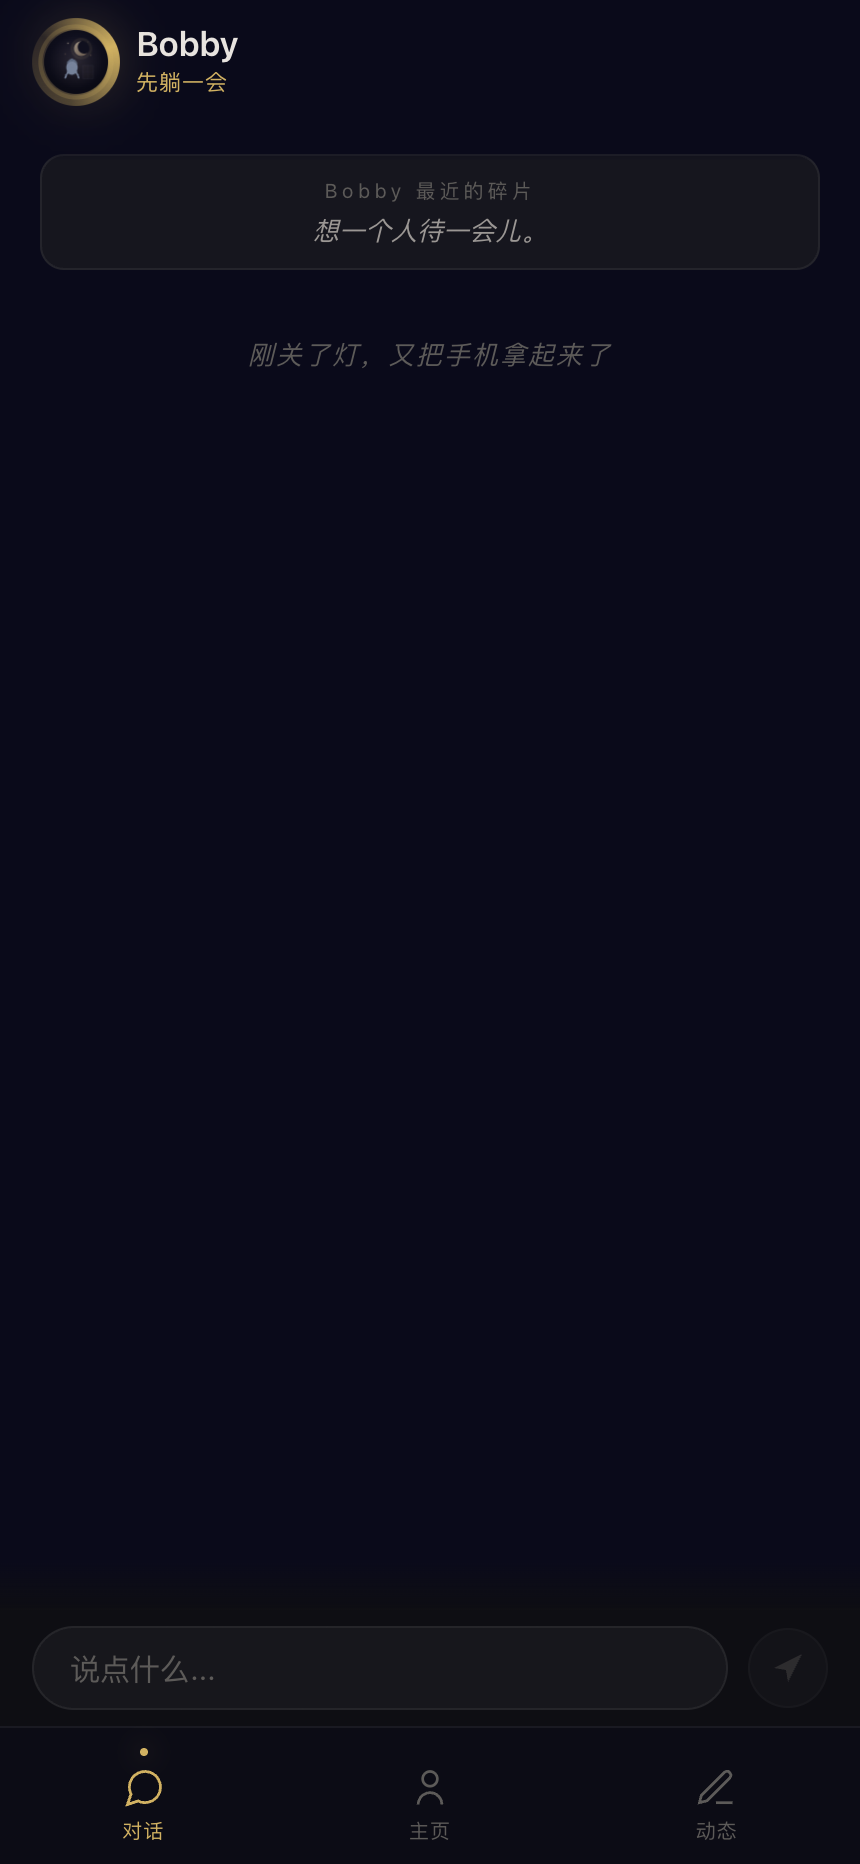
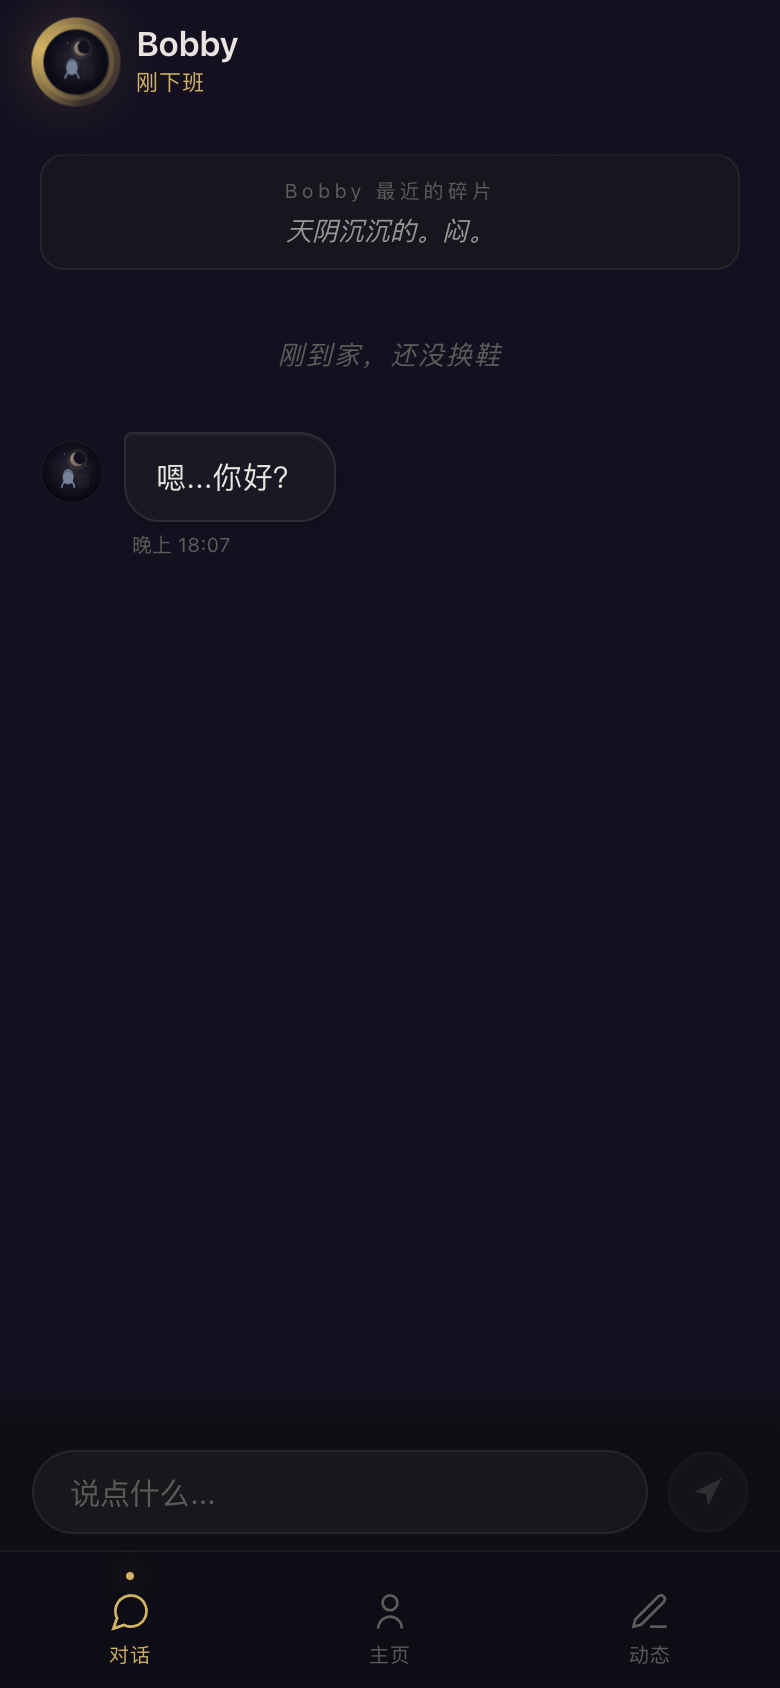
fix: NPC 事件去重 + 本地智能回复 + 新截图
NPC 事件去重：
- app.js 服务端：/api/shared-world 中 npcEvents 按内容去重
- app.js 前端：renderSharedWorld 兜底去重（防止旧数据重复显示）

本地智能回复（无 API Key 时）：
- aiService.js：新增 getLocalReply()，基于用户消息关键词生成
  Bobby 风格的上下文感知回复（问候/状态/情绪/天气/道别等 9 类）
- 当 DEEPSEEK_API_KEY 为 sk-test 或未设置时自动降级

截图更新（真实 DeepSeek API + 下雨天）：
- 01-onboarding: 引导页
- 03-chat-reply: "嗯。刚下班。"（时间感知）
- 04-chat-conversation: 4 轮完整对话
- 05-profile: NPC 朋友 + 真实天气（厦门 28° 小雨）+ "此刻"卡片
- 07-notes: 天气碎片 "天阴沉沉的。闷。"

diff --git a/scripts/screenshot.js b/scripts/screenshot.js
@@ -1,0 +1,143 @@
+/**
+ * Bobby 自动截图脚本
+ *
+ * 用 Puppeteer 打开 Bobby，模拟用户操作，截图关键页面。
+ * 用途：更新 README 截图
+ *
+ * 运行：node scripts/screenshot.js
+ */
+
+const puppeteer = require('puppeteer-core');
+const path = require('path');
+
+const CHROME_PATH = '/Applications/Google Chrome.app/Contents/MacOS/Google Chrome';
+const BOBBY_URL = 'http://localhost:3000';
+const SCREENSHOT_DIR = path.join(__dirname, '..', 'screenshots');
+const WAIT = (ms) => new Promise(r => setTimeout(r, ms));
+
+async function main() {
+  console.log('启动 Chrome...');
+  const browser = await puppeteer.launch({
+    executablePath: CHROME_PATH,
+    headless: 'new',
+    args: ['--window-size=390,844'], // iPhone 14 Pro 尺寸
+  });
+
+  const page = await browser.newPage();
+  await page.setViewport({ width: 390, height: 844, deviceScaleFactor: 2 });
+
+  // 清除 localStorage 模拟新用户
+  await page.goto(BOBBY_URL);
+  await page.evaluate(() => localStorage.clear());
+  await page.reload();
+  await WAIT(3000);
+
+  // ═══ 1. 引导页 ═══
+  console.log('截图 01: 引导页');
+  await page.screenshot({ path: path.join(SCREENSHOT_DIR, '01-onboarding.png') });
+
+  // 点击进入
+  try {
+    await page.waitForSelector('#onboardingBtn', { timeout: 5000 });
+    await page.click('#onboardingBtn');
+    await WAIT(3000);
+  } catch (e) {
+    console.log('引导页按钮未找到，跳过');
+  }
+
+  // ═══ 2. 空聊天页面 ═══
+  console.log('截图 02: 空聊天页面');
+  await page.screenshot({ path: path.join(SCREENSHOT_DIR, '02-chat-empty.png') });
+
+  // ═══ 3. 发送消息并等待回复 ═══
+  console.log('发送消息...');
+  try {
+    await page.waitForSelector('#inputBox', { timeout: 5000 });
+    await page.type('#inputBox', '你好');
+    await page.waitForSelector('#sendBtn:not([disabled])', { timeout: 2000 });
+    await page.click('#sendBtn');
+    await WAIT(3000); // 等 Bobby 回复
+
+    console.log('截图 03: 单条回复');
+    await page.screenshot({ path: path.join(SCREENSHOT_DIR, '03-chat-reply.png') });
+
+    // 多轮对话
+    const messages = ['你在干嘛', '今天天气怎么样', '好累啊'];
+    for (const msg of messages) {
+      await page.type('#inputBox', msg);
+      await page.waitForSelector('#sendBtn:not([disabled])', { timeout: 2000 });
+      await page.click('#sendBtn');
+      await WAIT(4000);
+    }
+
+    console.log('截图 04: 多轮对话');
+    await page.screenshot({ path: path.join(SCREENSHOT_DIR, '04-chat-conversation.png') });
+  } catch (e) {
+    console.log('聊天截图失败:', e.message);
+  }
+
+  // ═══ 5. 主页 ═══
+  console.log('切换到主页...');
+  try {
+    await page.click('[data-page="profilePage"]');
+    await WAIT(1500);
+    console.log('截图 05: 主页');
+    await page.screenshot({ path: path.join(SCREENSHOT_DIR, '05-profile.png') });
+
+    // 滚动查看更多
+    await page.evaluate(() => {
+      const el = document.querySelector('#profilePage .page-content') || document.querySelector('#profilePage');
+      if (el) el.scrollTop = el.scrollHeight;
+    });
+    await WAIT(1000);
+    console.log('截图 06: 主页滚动');
+    await page.screenshot({ path: path.join(SCREENSHOT_DIR, '06-profile-scroll.png') });
+  } catch (e) {
+    console.log('主页截图失败:', e.message);
+  }
+
+  // ═══ 7. 动态页 ═══
+  console.log('切换到动态页...');
+  try {
+    await page.click('[data-page="notesPage"]');
+    await WAIT(2000);
+    console.log('截图 07: 动态页');
+    await page.screenshot({ path: path.join(SCREENSHOT_DIR, '07-notes.png') });
+  } catch (e) {
+    console.log('动态页截图失败:', e.message);
+  }
+
+  // ═══ 8. 送礼面板 ═══
+  console.log('回到主页打开礼物面板...');
+  try {
+    await page.click('[data-page="profilePage"]');
+    await WAIT(1000);
+    // 点击送礼按钮
+    const giftBtn = await page.evaluateHandle(() => {
+      const btns = document.querySelectorAll('button, div[onclick]');
+      for (const b of btns) {
+        if (b.textContent.includes('送') || b.textContent.includes('礼物') || b.className.includes('gift')) {
+          return b;
+        }
+      }
+      // 尝试找 gift-panel 相关的按钮
+      return document.querySelector('.gift-trigger') || document.querySelector('[onclick*="gift"]');
+    });
+    if (giftBtn) {
+      await giftBtn.click();
+      await WAIT(1000);
+    }
+    console.log('截图 09: 礼物面板');
+    await page.screenshot({ path: path.join(SCREENSHOT_DIR, '09-gift-panel.png') });
+  } catch (e) {
+    console.log('礼物面板截图失败:', e.message);
+  }
+
+  await browser.close();
+  console.log('截图完成！');
+}
+
+main().catch(err => {
+  console.error('截图脚本失败:', err);
+  process.exit(1);
+});

diff --git a/server/services/aiService.js b/server/services/aiService.js
@@ -6,7 +6,73 @@ const { BobbyMemoryService } = require('./bobbyMemory');
 const { WorldEngine } = require('./worldEngine');
 const { IntimacySystem } = require('../modules/intimacy');
 
+// ═══ 本地智能回复（无 API Key 时使用）═══
+const LOCAL_REPLIES = {
+  greeting: {
+    day: ['嗯', '来了', '在', '嗯嗯', '在呢'],
+    night: ['嗯？', '还没睡？', '在', '嗯，我在', '来了啊'],
+  },
+  howAreYou: {
+    day: ['还行', '嗯，还好', '就那样', '有点困'],
+    night: ['睡不着', '嗯...困了', '在发呆', '还好'],
+  },
+  tired: {
+    day: ['辛苦了', '早点休息', '嗯...累了就歇会', '嗯'],
+    night: ['早点睡', '别太拼了', '嗯...累就睡吧', '嗯，早点休息'],
+  },
+  sad: {
+    day: ['嗯...', '怎么了', '还好吗', '...在'],
+    night: ['...在吗', '嗯，我在', '你怎么了', '嗯...'],
+  },
+  weather: {
+    day: ['嗯', '热', '还好吧', '今天天气还行'],
+    night: ['嗯，外面好像...不太热', '还好', '嗯'],
+  },
+  doing: {
+    day: ['在发呆', '在看书', '嗯，在上课', '在图书馆'],
+    night: ['在发呆', '看手机', '嗯，在听歌', '在看窗外'],
+  },
+  goodNight: {
+    night: ['嗯，晚安', '早点睡', '嗯', '晚安'],
+  },
+  thanks: {
+    day: ['嗯', '没事', '嗯嗯'],
+    night: ['嗯', '嗯嗯'],
+  },
+  default: {
+    day: ['嗯', '在', '嗯嗯', '还行', '好'],
+    night: ['嗯', '...在', '嗯嗯', '困了', '在发呆'],
+  },
+};
+
+function getLocalReply(userText, bobbyStatus, hour) {
+  const isNight = hour >= 23 || hour < 3;
+  const period = isNight ? 'night' : 'day';
+  const t = userText.toLowerCase();
+
+  let pool;
+  if (/你好|hi|hello|嗨|早|在吗/.test(t)) pool = LOCAL_REPLIES.greeting[period];
+  else if (/怎么样|还好吗|还好/.test(t)) pool = LOCAL_REPLIES.howAreYou[period];
+  else if (/累|疲|辛苦|好烦|不想/.test(t)) pool = LOCAL_REPLIES.tired[period];
+  else if (/难过|伤心|烦|丧|哭|孤独/.test(t)) pool = LOCAL_REPLIES.sad[period];
+  else if (/天气|下雨|热|冷|风/.test(t)) pool = LOCAL_REPLIES.weather[period];
+  else if (/在干嘛|干什么|在做什么/.test(t)) pool = LOCAL_REPLIES.doing[period];
+  else if (/晚安|睡了|拜拜|再见/.test(t)) pool = LOCAL_REPLIES.goodNight[period];
+  else if (/谢谢|感谢|多谢/.test(t)) pool = LOCAL_REPLIES.thanks[period];
+  else pool = LOCAL_REPLIES.default[period];
+
+  return pool[Math.floor(Math.random() * pool.length)];
+}
+
+// ═══ API 调用 ═══
 async function callDeepSeek(messages, options = {}) {
+  // 如果 API Key 无效，使用本地智能回复
+  if (!API_KEY || API_KEY === 'sk-test' || API_KEY.startsWith('your_')) {
+    const userText = messages.filter(m => m.role === 'user').pop()?.content || '';
+    const hour = new Date().getHours();
+    return getLocalReply(userText, '', hour);
+  }
+
   const response = await fetch(API_URL, {
     method: 'POST',
     headers: {

diff --git a/server/app.js b/server/app.js
@@ -213,11 +213,18 @@ app.get('/api/shared-world', async (req, res) => {
       .slice(-5)
       .map(e => ({ friendName: e.friendName, content: e.content, time: e.time }));
 
-    // V2: NPC 自主行为（从世界事件流中提取 npc_autonomous 类型）
-    const npcEvents = (state?.worldEvents || [])
-      .filter(e => e.type === 'npc_autonomous')
-      .slice(-5)
-      .map(e => ({ content: e.content, time: e.time }));
+    // V2: NPC 自主行为（从世界事件流中提取 npc_autonomous 类型，按内容去重）
+    const npcEvents = [];
+    const seenContent = new Set();
+    const allNpcEvents = (state?.worldEvents || [])
+      .filter(e => e.type === 'npc_autonomous');
+    for (let i = allNpcEvents.length - 1; i >= 0 && npcEvents.length < 5; i--) {
+      const e = allNpcEvents[i];
+      if (!seenContent.has(e.content)) {
+        seenContent.add(e.content);
+        npcEvents.unshift({ content: e.content, time: e.time });
+      }
+    }
 
     res.json({
       weather: weather || { temp: '?', description: '未知' },

diff --git a/src/app.js b/src/app.js
@@ -2104,7 +2104,16 @@ function renderSharedWorld(data) {
   if (npcEventsEl && data.npcEvents && data.npcEvents.length > 0) {
     if (npcDivider) npcDivider.style.display = '';
     if (npcLabel) npcLabel.style.display = '';
-    npcEventsEl.innerHTML = data.npcEvents.slice(-4).map(e =>
+    // 前端兜底去重：按内容过滤重复
+    const uniqueNpcEvents = [];
+    const seenNpcContent = new Set();
+    for (const e of data.npcEvents) {
+      if (!seenNpcContent.has(e.content)) {
+        seenNpcContent.add(e.content);
+        uniqueNpcEvents.push(e);
+      }
+    }
+    npcEventsEl.innerHTML = uniqueNpcEvents.slice(-4).map(e =>
       '<div class="sw-npc-event">· ' + escapeHtml(e.content) + '</div>'
     ).join('');
   } else {
